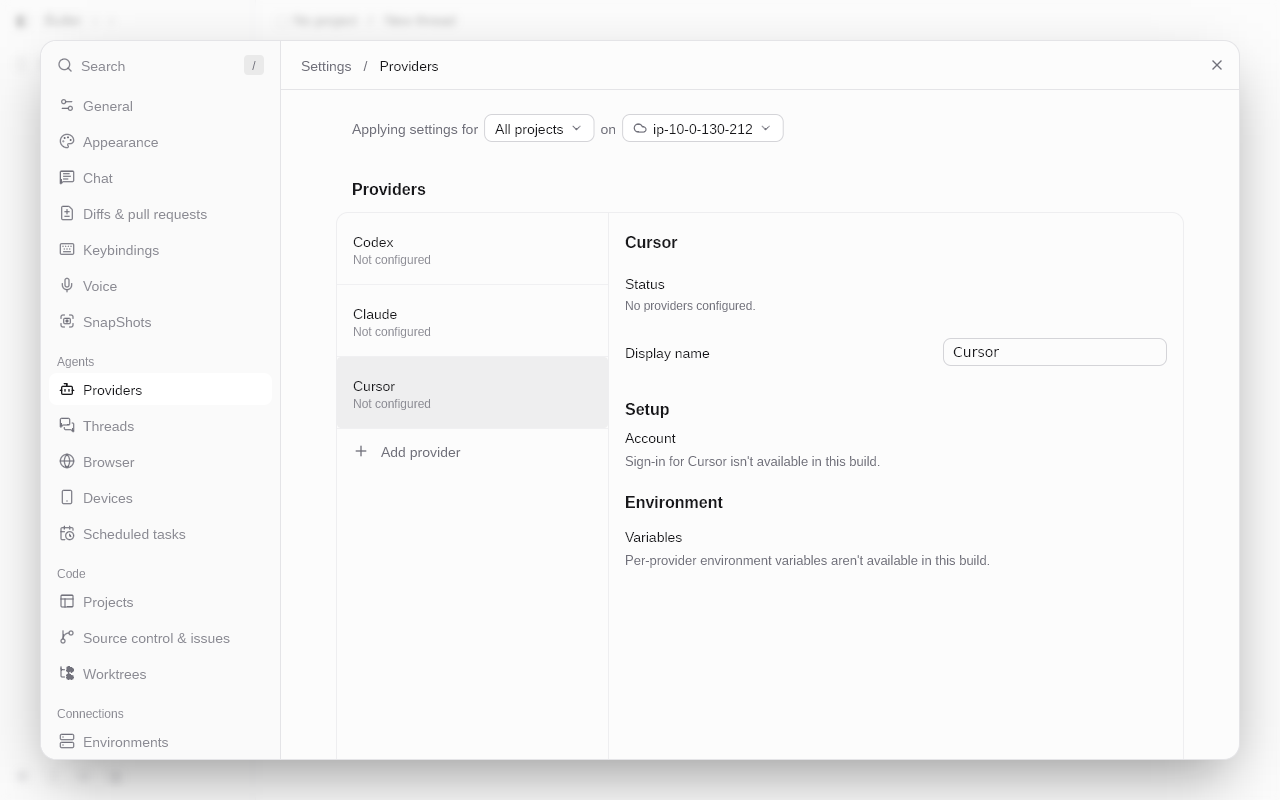
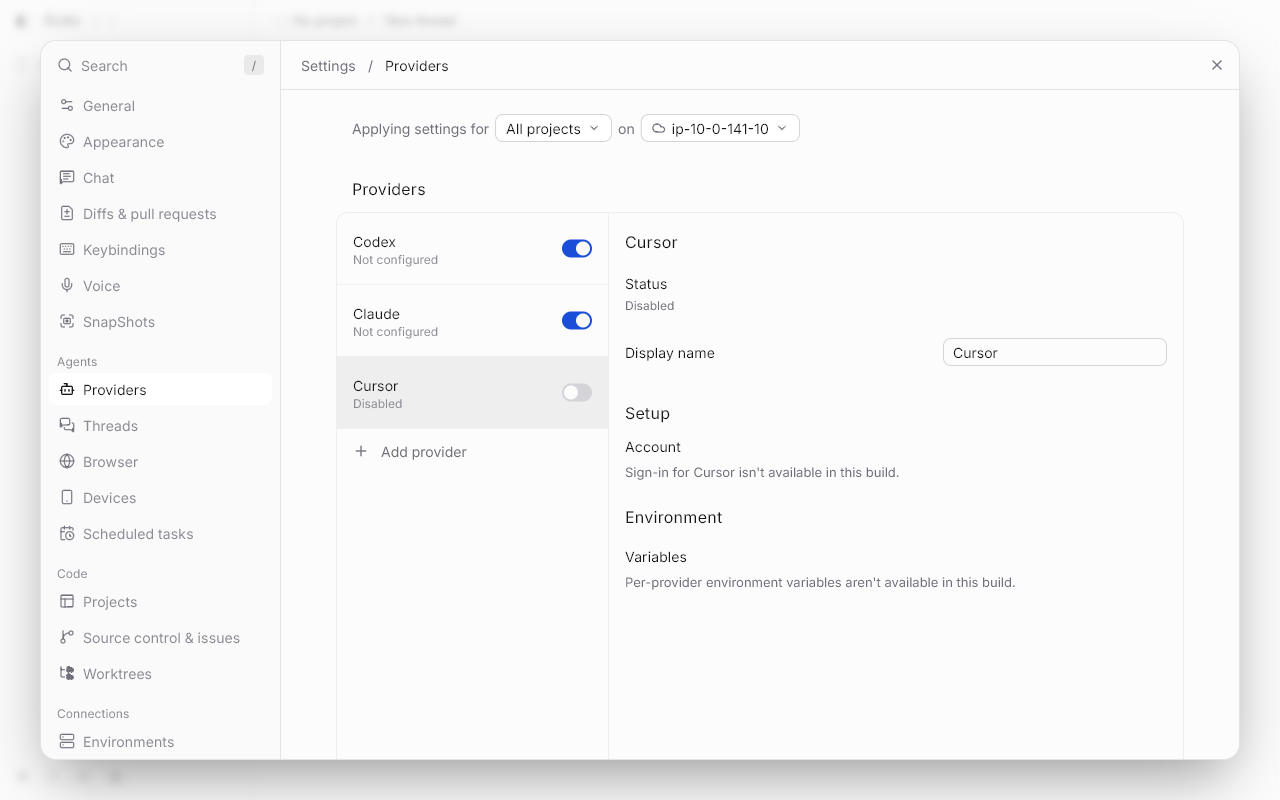
Refresh native Providers pair and check selected editor status

diff --git a/status-report.md b/status-report.md
@@ -52,3 +52,4 @@
 - Native Linux run `45354812510` passed. Published the real first-run Providers comparison under `screenshots/{t3,butler}/providers-fresh-light-1280x800.png` with exact build provenance. Both are 1280×800; 503,100 pixels differ. This Butler capture predates Inter and the switches. Updated the workflow to fail rather than silently skip the Providers comparison when the reference and Butler settings checks are both requested; the next run will capture the newer settings.
 - Ported the exact Codex, Claude, and Cursor marks from the pinned T3 sources into the list and editor using native Canvas paths. Added the source icon and text spacing, single-line name truncation, and explicitly named provider selection with pressed semantics separate from the independent switches. Offline keyboard selection, name persistence, and both glyph geometry/color tests pass; all 31 locked tests and the build pass. Full hover and provider diagnostics/auth still differ. The earlier capture run predates these glyphs.
 - Translated the Providers editor’s section and Status/Display name geometry from pinned `settingsLayout.tsx`: edge-to-edge rule, original insets and gaps, and Display name stacking below the editor row’s own 512 px content breakpoint. The input is 224 px wide only in the side-by-side layout; the test checks the boundary and the existing UI test still verifies editing and restart persistence. All 32 locked tests and the native build pass. Native screenshots for this revision, the accent picker, and other provider setup controls remain pending.
+- Native run `45359147124` passed; replaced the checked-in Providers pair with the verified build that includes Inter and local enable switches. Both editors show disabled Cursor; 502,584 pixels differ. The new workflow run checks the disabled editor status in both captures and will include the later original icons and responsive rows. The older pair remains in history.

diff --git a/screenshots/README.md b/screenshots/README.md
@@ -36,13 +36,18 @@ buttons, shifted spacing, and native window controls mean it is not parity.
 - [T3 Code](t3/providers-fresh-light-1280x800.png) · [Butler](butler/providers-fresh-light-1280x800.png)
 - Both are unmodified 1280×800 native Linux X11 captures from a fresh profile
   after skipping first-run setup and opening Providers from the gated draft.
-- [Native run 45354812510][providers-run]: T3 Code v0.1.11
+- [Native run 45359147124][providers-run]: T3 Code v0.1.11
   (`59651c1761f6c63e9b6056839067066968e6a406`), Butler
-  `a88320d462a0a745ac7eabb9ea03388f06937c1b`. This Butler capture predates
-  the Inter font and provider switches.
-- Raw absolute error: 503,100 of 1,024,000 pixels differ (49.13%).
-  Cursor is selected in both. T3 shows its disabled Cursor and missing CLI
-  status for Codex and Claude; Butler shows offline placeholders in this build.
-  List/details layout, setup UI, typography, and chrome also still differ.
+  `fd023ed1022a6a3a66086c8604e420fb5c38949e`. This Butler capture includes
+  the Inter Variable face and enable switches, but predates the original
+  provider marks and responsive editor.
+- Raw absolute error: 502,584 of 1,024,000 pixels differ (49.08%).
+  Cursor is selected and disabled in both. T3 shows missing CLI diagnostics
+  for Codex and Claude; Butler shows offline placeholders. List/details
+  layout, setup UI, font weights, and window chrome still differ.
+- [Previous native run 45354812510][providers-old] captured the same screen
+  at Butler `a88320d462a0a745ac7eabb9ea03388f06937c1b` before Inter and
+  the switches. The earlier PNGs are also in Git history.
 
-[providers-run]: https://github.com/Ferrb9579/butler/actions/runs/45354812510
+[providers-run]: https://github.com/Ferrb9579/butler/actions/runs/45359147124
+[providers-old]: https://github.com/Ferrb9579/butler/actions/runs/45354812510
